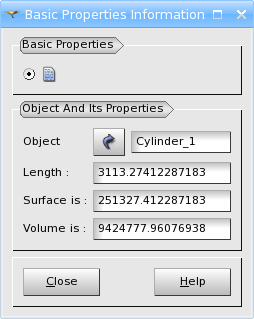
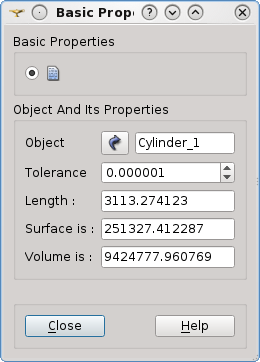
0023272: [CEA] Add a tolerance for basic properties computation

diff --git a/src/GEOM_SWIG/geomBuilder.py b/src/GEOM_SWIG/geomBuilder.py
@@ -10579,6 +10579,8 @@ class geomBuilder(object, GEOM._objref_GEOM_Gen):
         ## Get summarized length of all wires,
         #  area of surface and volume of the given shape.
         #  @param theShape Shape to define properties of.
+        #  @param theTolerance maximal relative error of area
+        #         and volume computation.
         #  @return [theLength, theSurfArea, theVolume]\n
         #  theLength:   Summarized length of all wires of the given shape.\n
         #  theSurfArea: Area of surface of the given shape.\n
@@ -10586,13 +10588,15 @@ class geomBuilder(object, GEOM._objref_GEOM_Gen):
         #
         #  @ref tui_basic_properties_page "Example"
         @ManageTransactions("MeasuOp")
-        def BasicProperties(self,theShape):
+        def BasicProperties(self,theShape, theTolerance=1.e-6):
             """
             Get summarized length of all wires,
             area of surface and volume of the given shape.
 
             Parameters:
                 theShape Shape to define properties of.
+                theTolerance maximal relative error of area
+                             and volume computation.
 
             Returns:
                 [theLength, theSurfArea, theVolume]
@@ -10601,7 +10605,7 @@ class geomBuilder(object, GEOM._objref_GEOM_Gen):
                  theVolume:   Volume of the given shape.
             """
             # Example: see GEOM_TestMeasures.py
-            aTuple = self.MeasuOp.GetBasicProperties(theShape)
+            aTuple = self.MeasuOp.GetBasicProperties(theShape, theTolerance)
             RaiseIfFailed("GetBasicProperties", self.MeasuOp)
             return aTuple
 

diff --git a/src/MeasureGUI/MeasureGUI_PropertiesDlg.h b/src/MeasureGUI/MeasureGUI_PropertiesDlg.h
@@ -29,7 +29,8 @@
 
 #include "MeasureGUI_Skeleton.h"
 
-class MeasureGUI_1Sel3LineEdit;
+class SalomeApp_DoubleSpinBox;
+class QLineEdit;
 
 //=================================================================================
 // class    : MeasureGUI_PropertiesDlg
@@ -46,6 +47,7 @@ public:
   
 protected:
   // redefined from GEOMBase_Helper and MeasureGUI_Skeleton
+  virtual bool                        isValid( QString& );
   virtual void                        processObject();
   virtual void                        activateSelection();
   virtual void                        SelectionIntoArgument();
@@ -57,8 +59,14 @@ private:
                                                      double&,
                                                      double& );
 
-private:    
-  MeasureGUI_1Sel3LineEdit*           myGrp;
+private:
+  SalomeApp_DoubleSpinBox *myTolerance;
+  QLineEdit               *myLength;
+  QLineEdit               *mySurface;
+  QLineEdit               *myVolume;
+
+private slots:
+  void                                toleranceChanged(double);
 };
 
 #endif // MEASUREGUI_PROPERTIESDLG_H

diff --git a/src/GEOM_I/GEOM_IMeasureOperations_i.cc b/src/GEOM_I/GEOM_IMeasureOperations_i.cc
@@ -495,6 +495,7 @@ GEOM::GEOM_Object_ptr GEOM_IMeasureOperations_i::GetNormal
  */
 //=============================================================================
 void GEOM_IMeasureOperations_i::GetBasicProperties (GEOM::GEOM_Object_ptr theShape,
+                                                    CORBA::Double  theTolerance,
                                                     CORBA::Double& theLength,
                                                     CORBA::Double& theSurfArea,
                                                     CORBA::Double& theVolume)
@@ -507,7 +508,8 @@ void GEOM_IMeasureOperations_i::GetBasicProperties (GEOM::GEOM_Object_ptr theSha
   if (aShape.IsNull()) return;
 
   // Get shape parameters
-  GetOperations()->GetBasicProperties(aShape, theLength, theSurfArea, theVolume);
+  GetOperations()->GetBasicProperties(aShape, theTolerance, theLength,
+                                      theSurfArea, theVolume);
 }
 
 //=============================================================================
